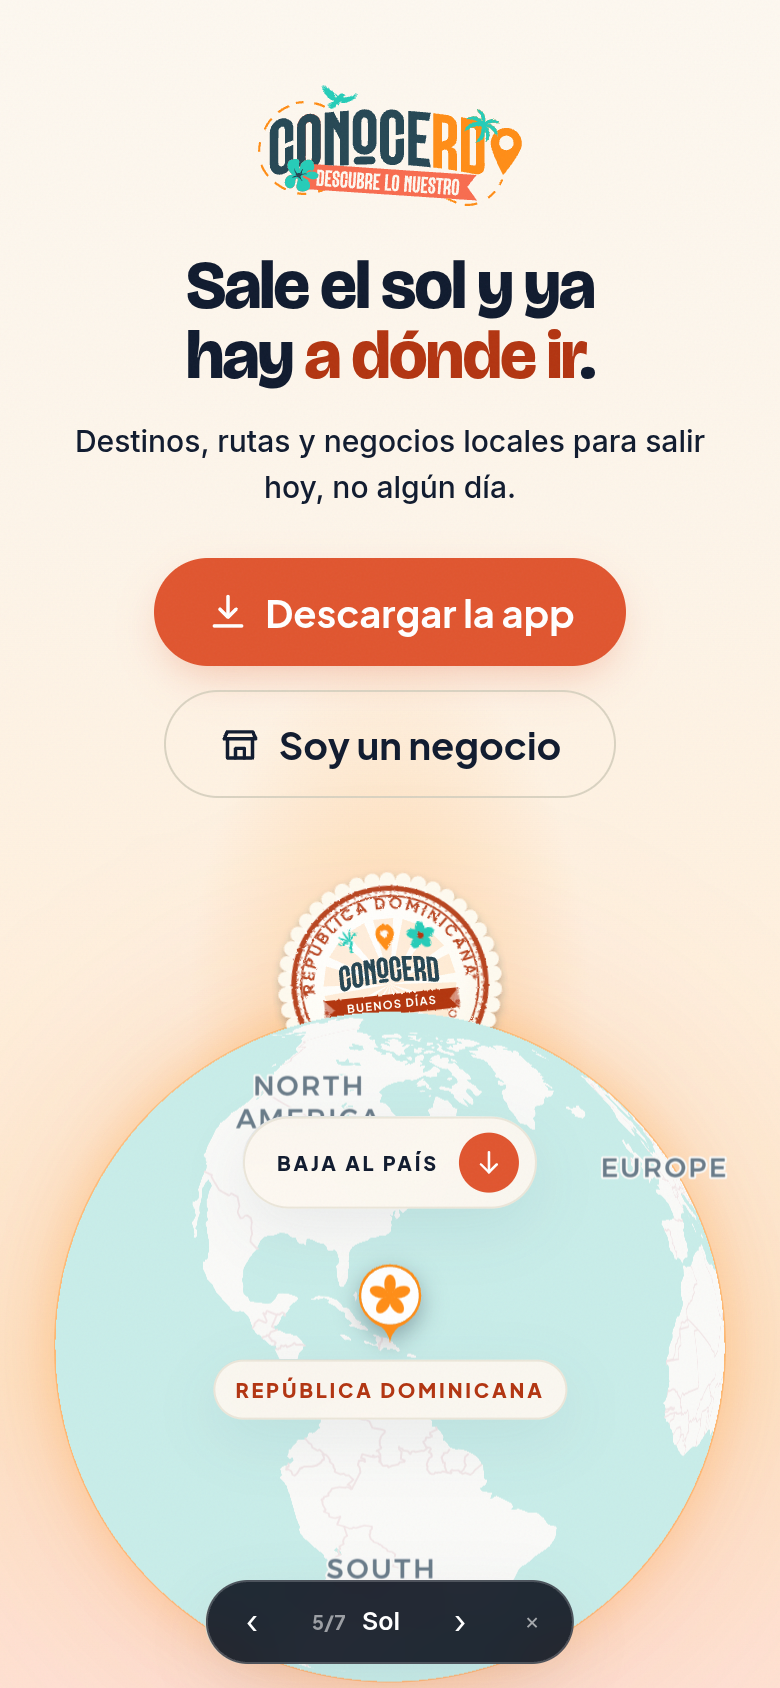
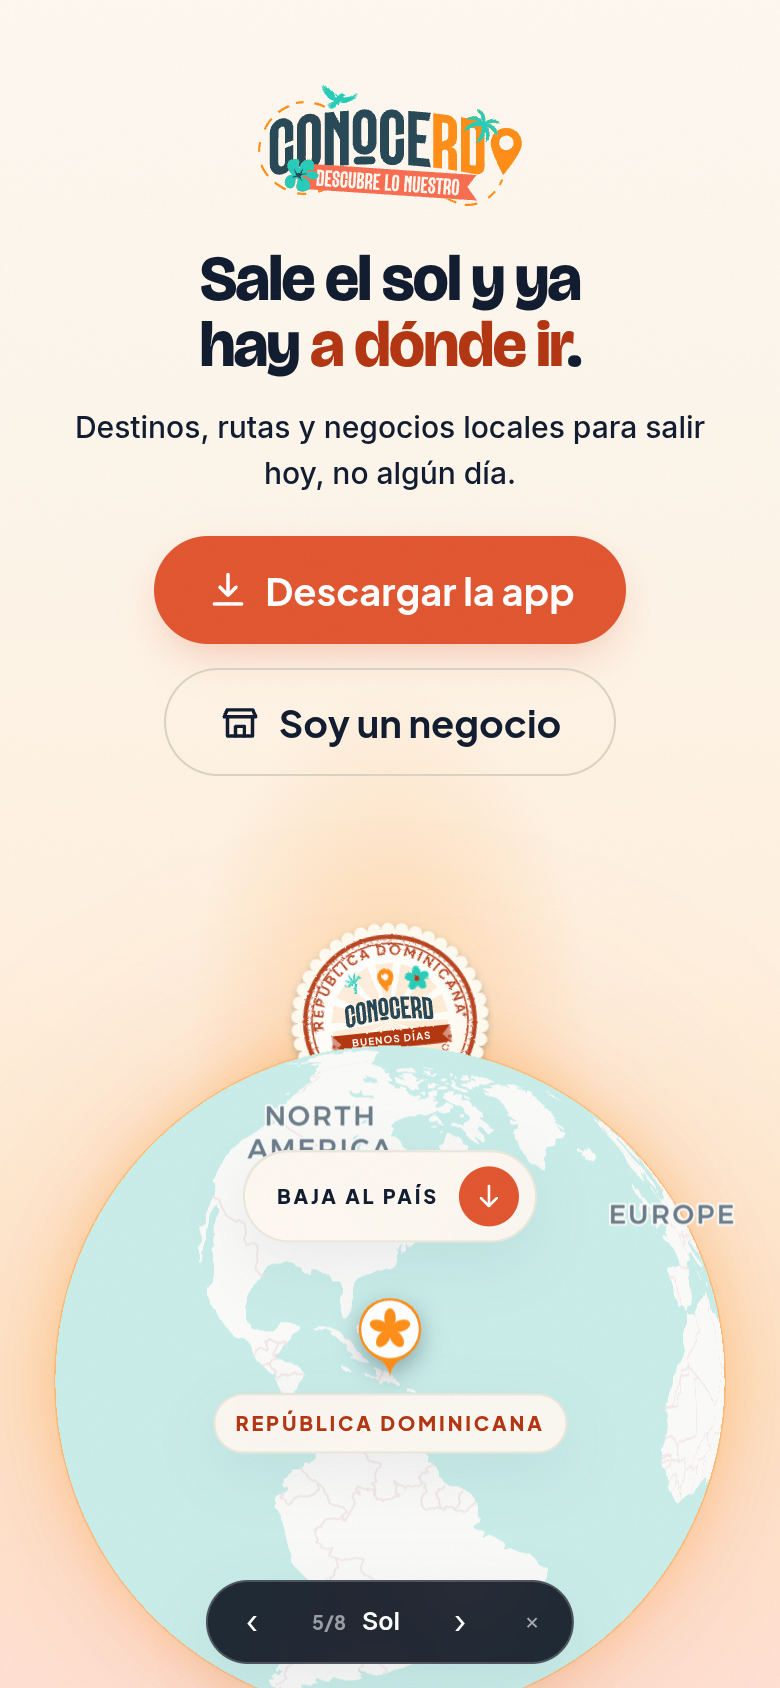
fix(heroes): sol, el cuño deja de pisar el botón en teléfonos bajos

Changed region(s): [[0.0615, 0.4929, 0.9538, 1.0], [0.0923, 0.154, 0.9231, 0.4621], [0.7692, 0.4313, 0.8, 0.4621]]

diff --git a/src/app/heroes/sol/estilos.module.css b/src/app/heroes/sol/estilos.module.css
@@ -13,7 +13,7 @@
 
 .escena {
   --globo-r: 42.8vw;
-  --arco: max(60dvh, 300px);
+  --arco: max(62dvh, 300px);
   --dx: 0px;
   --globo-baja: calc(var(--arco) + var(--globo-r) - 50dvh);
 
@@ -99,7 +99,7 @@
 
 .estampa {
   display: block;
-  width: clamp(118px, 12vw, 168px);
+  width: clamp(104px, 12vw, 168px);
   height: auto;
 }
 
@@ -130,9 +130,9 @@
 }
 
 .titular {
-  margin: 22px 0 0;
+  margin: 20px 0 0;
   max-width: 14ch;
-  font-size: clamp(34px, 8.8vw, 60px);
+  font-size: clamp(32px, 8vw, 60px);
   line-height: 1.04;
 }
 
@@ -148,7 +148,7 @@
   flex-direction: column;
   align-items: center;
   gap: 12px;
-  margin-top: 24px;
+  margin-top: 20px;
 }
 
 @media (min-width: 900px) {
